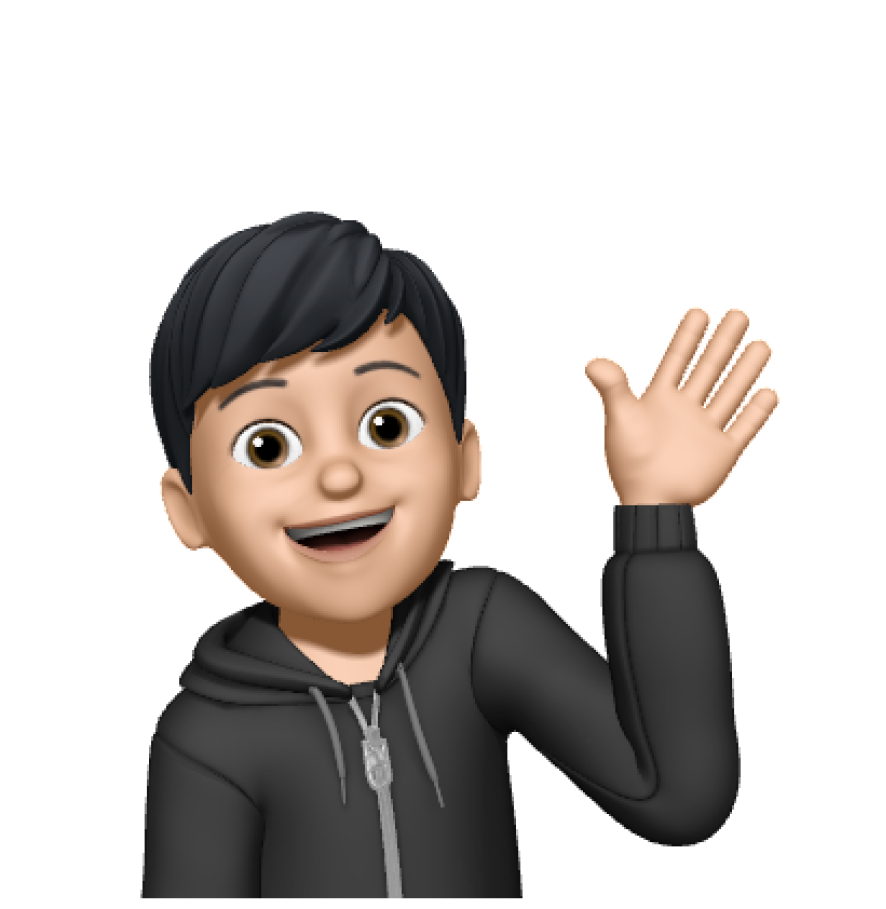
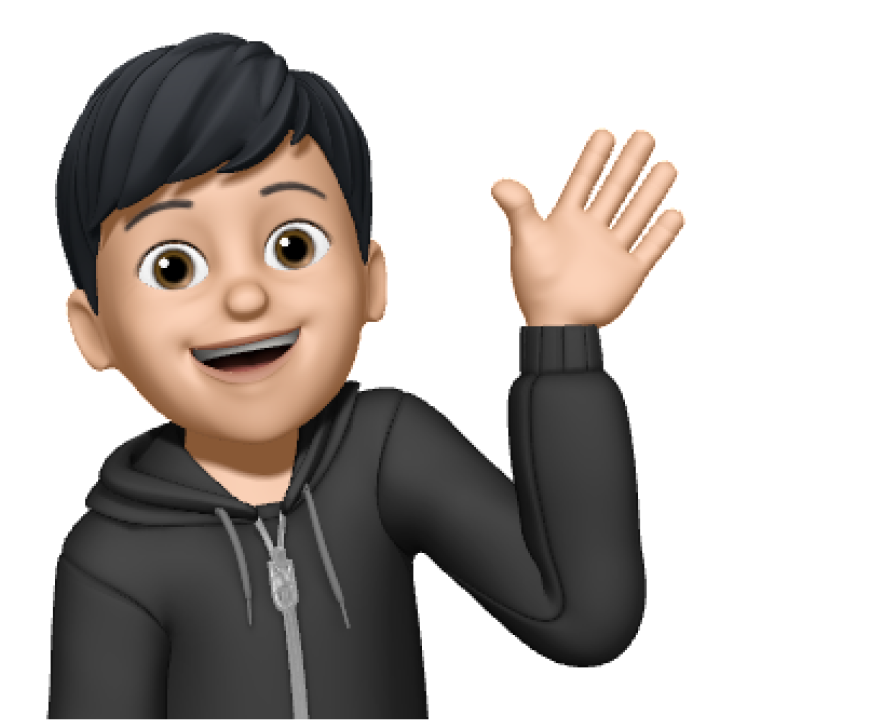
add about section

diff --git a/v2/src/components/About.js b/v2/src/components/About.js
@@ -1,0 +1,100 @@
+import React from "react";
+import { motion } from "framer-motion";
+import AnimatedTitle from "./animations/AnimatedTitle";
+
+function About() {
+  const container = {
+    visible: {
+      transition: {
+        staggerChildren: 0.03,
+      },
+    },
+  };
+
+  const titleToAnimate = [
+    {
+      type: "heading2",
+      text: "About Me",
+      hiddenColor: "#FF0088",
+      visibleColor: "#fb9fa4",
+    },
+  ];
+
+  const subtitleToAnimate = [
+    {
+      type: "paragraph",
+      text: "I'm a 17 year old student",
+      hiddenColor: "#FF0088",
+      visibleColor: "#fff",
+    },
+    {
+      type: "paragraph",
+      text: "and self-taught Web, App, & Game developer",
+      hiddenColor: "#FF0088",
+      visibleColor: "#fff",
+    },
+  ];
+
+  // I'm a 17 year old student, and self-taught Web, App, & Game developer
+
+  return (
+    <div id="about" className="about">
+      <motion.div
+        className="akira"
+        initial="hidden"
+        whileInView="visible"
+        viewport={{ once: false }}
+        transition={{ duration: 0.05 }}
+        // variants={{
+        //   visible: { opacity: 1, scale: 1 },
+        //   hidden: { opacity: 0, scale: 0 },
+        // }}
+        variants={{
+          visible: {
+            transition: {
+              staggerChildren: 0.03,
+            },
+          },
+        }}
+      >
+        <div className="container">
+          {titleToAnimate.map((item, index) => {
+            return <AnimatedTitle {...item} key={index} />;
+          })}
+        </div>
+      </motion.div>
+
+      <motion.div
+        className="poppins about-subtitle"
+        initial="hidden"
+        whileInView="visible"
+        viewport={{ once: false }}
+        transition={{ duration: 0.5, delay: 2 }}
+        variants={{
+          visible: {
+            transition: {
+              staggerChildren: 0.0,
+            },
+          },
+        }}
+      >
+        <div className="container">
+          {subtitleToAnimate.map((item, index) => {
+            return <AnimatedTitle {...item} key={index} />;
+          })}
+        </div>
+      </motion.div>
+      <motion.div className="about-image-container">
+        <motion.img
+          whileHover={{ scale: 1.05 }}
+          whileTap={{ scale: 0.95 }}
+          className="about-image"
+          src={require("../img/virej-wave-memoji.png")}
+          alt=""
+        />
+      </motion.div>
+    </div>
+  );
+}
+
+export default About;

diff --git a/v2/src/App.css b/v2/src/App.css
@@ -1,5 +1,14 @@
 .landing {
   margin-top: 20vh;
+  height: 100vh;
+}
+
+.about {
+  font-size: clamp(1px, 5vw, 60px);
+  padding-top: 20vh;
+  height: 100vh;
+  margin-left: 30px;
+  margin-right: 25px;
 }
 
 .title {
@@ -23,6 +32,22 @@
   object-position: center;
   position: absolute;
   top: 16vh;
+  left: 70%;
+  width: 30%;
+}
+
+.about-subtitle {
+  /* min, default, max */
+  font-size: clamp(1px, 3.6vw, 40px);
+  margin-top: 30px;
+}
+
+.about-image {
+  /* absolute and responsive image */
+  object-fit: cover;
+  object-position: center;
+  position: absolute;
+  top: 132vh;
   left: 70%;
   width: 30%;
 }
@@ -55,6 +80,17 @@
 .glendale {
   font-family: "glendale";
 }
+
+.poppins {
+  font-family: "poppins";
+}
+
+.roboto {
+  font-family: "roboto";
+}
+
+
+
 
 @keyframes gradient {
   0% {

diff --git a/v2/src/index.css b/v2/src/index.css
@@ -1,3 +1,9 @@
+@import url('https://fonts.googleapis.com/css?family=Poppins:300,400,500,600,700');
+@import url('https://fonts.googleapis.com/css?family=Roboto:300,400,500,600,700');
+@import url('https://fonts.googleapis.com/css?family=Lato:300,400,500,600,700');
+@import url('https://fonts.googleapis.com/css?family=Open+Sans:300,400,500,600,700');
+
+
 @font-face {
   font-family: "glendale";
   src: local("glendale"),
@@ -10,9 +16,16 @@
     url("./fonts/akira/akira.otf") format("truetype");
 }
 
+
+
 * {
   margin: 0;
   padding: 0;
+}
+
+html {
+  scroll-behavior: smooth;
+
 }
 
 body {

diff --git a/v2/src/App.js b/v2/src/App.js
@@ -1,7 +1,8 @@
 import "./App.css";
 import { motion } from "framer-motion";
-import AnimatedTitle from "./components/AnimatedTitle";
-import AnimatedSubtitle from "./components/AnimatedSubtitle";
+import AnimatedTitle from "./components/animations/AnimatedTitle";
+import AnimatedSubtitle from "./components/animations/AnimatedSubtitle";
+import About from "./components/About";
 
 function App() {
   const container = {
@@ -114,6 +115,8 @@ function App() {
           />
         </motion.div>
       </div>
+
+      <About />
     </div>
   );
 }
